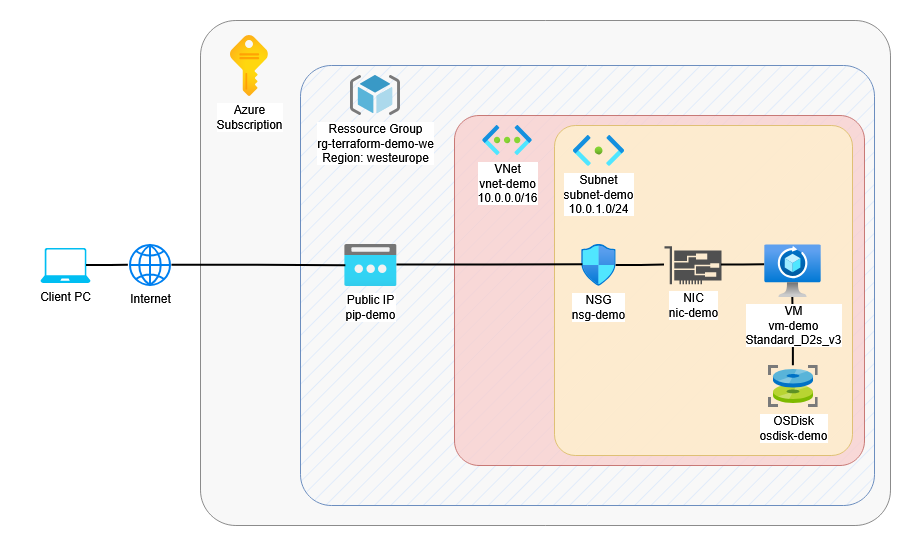
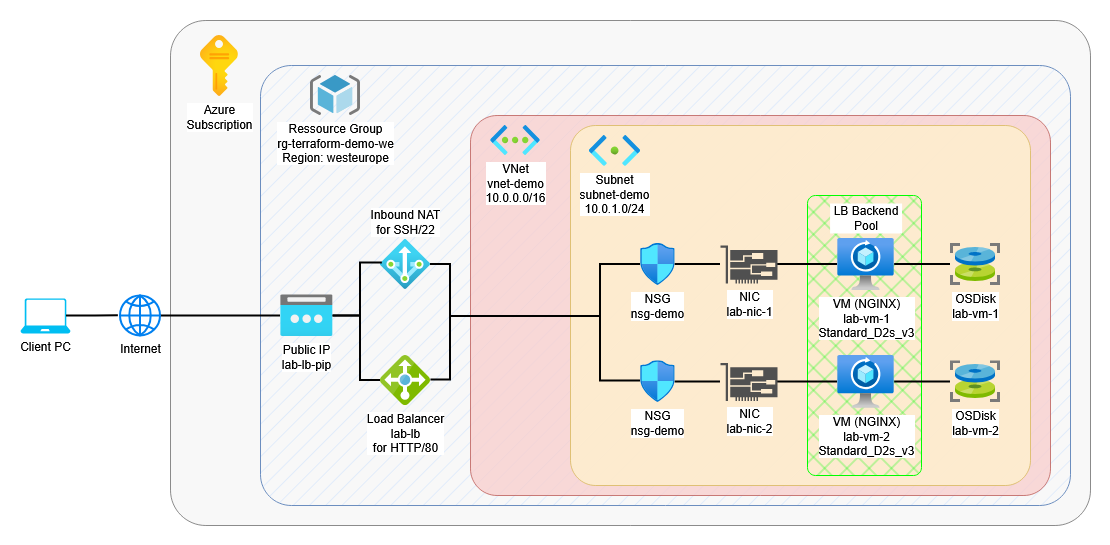
Added Public Load Balancer, Webservers and NAT

diff --git a/README.md b/README.md
@@ -10,7 +10,9 @@ This project deploys a small Azure infrastructure using Terraform.
 - Network Security Group with SSH rule
 - Public IP
 - Network Interface
-- Linux Virtual Machine
+- Linux Virtual Machine with NGINX Web Server
+- Public Load Balancer
+- Inbound NAT
 
 ## Goal
 
@@ -21,6 +23,7 @@ The goal of this project is to practice:
 - Terraform workflow
 - Network and security fundamentals
 - VM deployment and SSH access
+- Create load balanced webservers
 
 ## Architecture
 
@@ -28,9 +31,11 @@ The deployment creates:
 
 - one resource group in Azure
 - one virtual network with one subnet
-- one network security group allowing SSH (TCP/22)
+- one network security group allowing SSH (TCP/22) and HTTP (TCP/80)
 - one public IP and network interface
-- one Ubuntu Linux VM
+- two Ubuntu Linux VM
+- one public load balancer
+- one inbound NAT
 
 ![Architecture](images/architecture.png)
 
@@ -44,6 +49,7 @@ The deployment creates:
 - `variables.tf` - variable definitions
 - `terraform.tfvars` - environment-specific values
 - `outputs.tf` - Terraform outputs
+- `loadbalancer.tf` - loadbalancer, healthprobe and NAT
 
 ## Requirements
 
